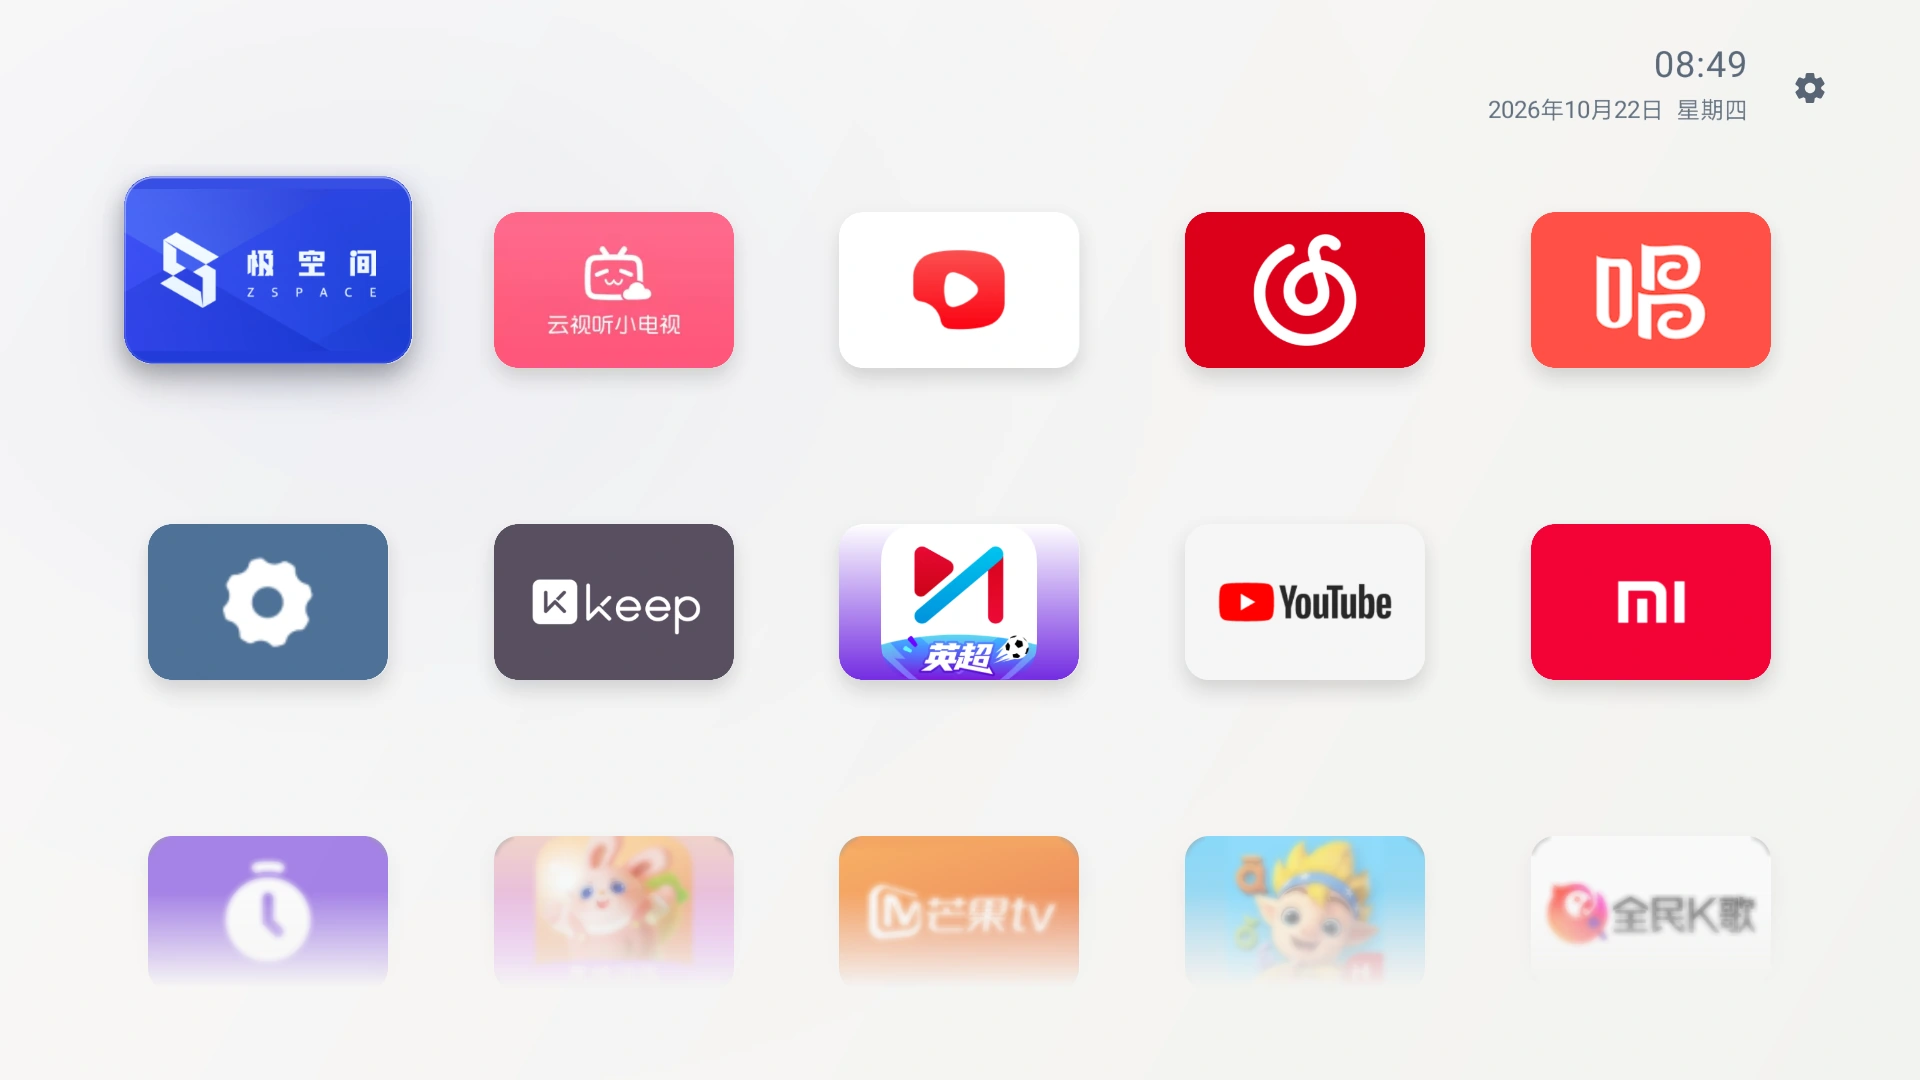
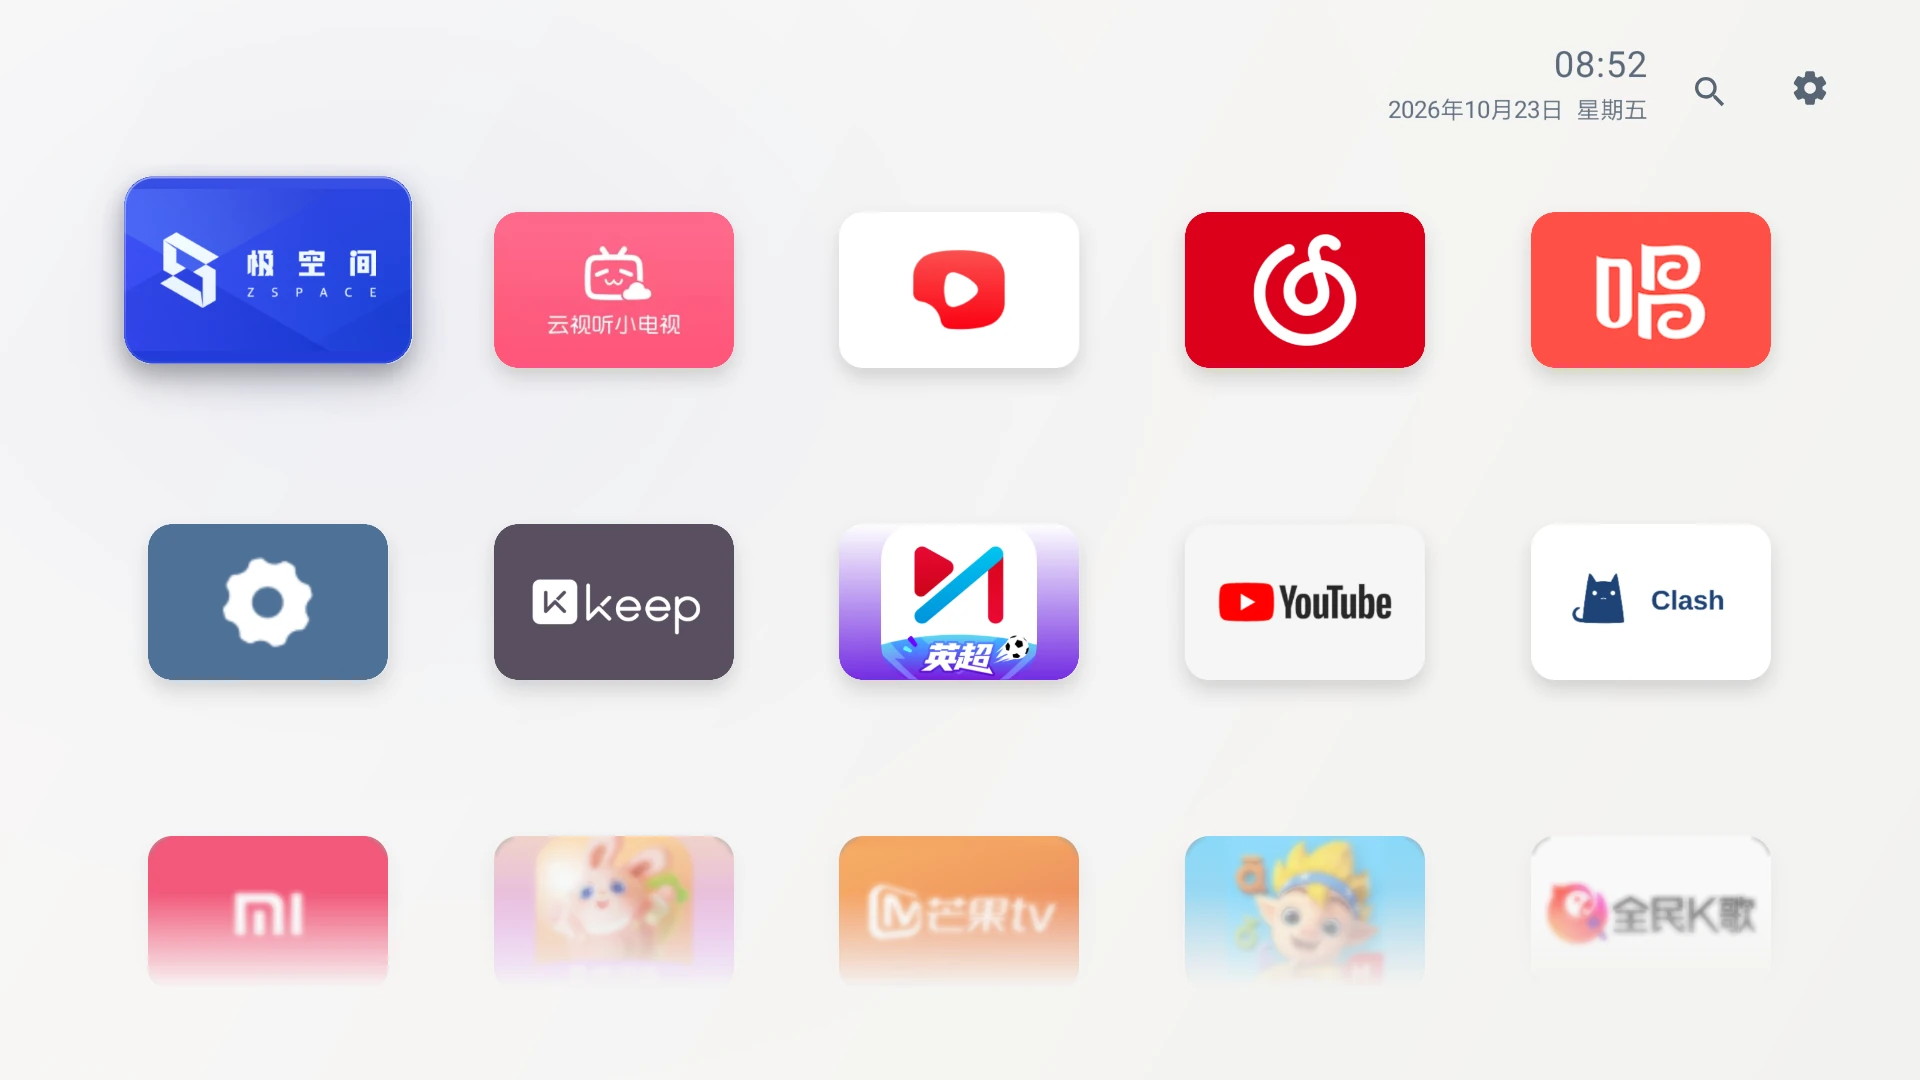
Refresh website screenshots from Still 0.9.0 on Xiaomi TV

Changed region(s): [[0.7812, 0.4583, 0.9375, 0.6417], [0.0625, 0.7639, 0.2188, 0.9167], [0.7188, 0.0306, 0.9062, 0.1222]]

diff --git a/website/index.html b/website/index.html
@@ -17,7 +17,7 @@
     <meta property="og:url" content="https://mfcheer.github.io/luma/" />
     <meta
       property="og:image"
-      content="https://mfcheer.github.io/luma/assets/home-light.webp"
+      content="https://mfcheer.github.io/luma/assets/home-light.webp?v=090"
     />
     <title>Still — 给电视一点留白</title>
     <link rel="canonical" href="https://mfcheer.github.io/luma/" />
@@ -68,10 +68,10 @@
             <img
               id="theme-preview"
               class="tv-screen"
-              src="./assets/home-light.webp"
+              src="./assets/home-light.webp?v=090"
               width="1920"
               height="1080"
-              alt="Still 浅色首页，小米电视实机截屏，五列应用卡片与底部渐隐续行"
+              alt="Still 0.9.0 浅色首页，小米电视实机截屏，带搜索入口、五列应用卡片与底部渐隐续行"
               fetchpriority="high"
             />
           </div>
@@ -108,7 +108,7 @@
                 controls
                 playsinline
                 preload="metadata"
-                poster="./assets/home-light.webp"
+                poster="./assets/video-poster.webp"
                 aria-label="Still 在小米电视上的真实交互演示"
               >
                 <source src="./assets/still-tv-demo.mp4" type="video/mp4" />
@@ -119,7 +119,7 @@
                 </p>
               </video>
             </div>
-            <figcaption>小米电视实机录制</figcaption>
+            <figcaption>小米电视实机录制 · Still 0.8.1</figcaption>
           </figure>
         </div>
       </section>
@@ -136,10 +136,10 @@
           </div>
           <div class="feature-art">
             <img
-              src="./assets/settings-light.webp"
+              src="./assets/settings-light.webp?v=090"
               width="1920"
               height="1080"
-              alt="Still 的分组设置页面，支持外观主题和显示应用名称开关"
+              alt="Still 0.9.0 的分组设置页面，支持外观主题和显示应用名称开关"
               loading="lazy"
             />
           </div>
@@ -151,10 +151,10 @@
           </div>
           <div class="feature-art">
             <img
-              src="./assets/menu-light.webp"
+              src="./assets/menu-light.webp?v=090"
               width="1920"
               height="1080"
-              alt="长按应用后出现的圆角菜单，提供移动位置与应用信息"
+              alt="Still 0.9.0 长按应用菜单，提供移动位置、移到最前与应用信息"
               loading="lazy"
             />
           </div>

diff --git a/website/site.js b/website/site.js
@@ -8,13 +8,13 @@ controls.forEach((button) => {
     const request = ++latestRequest;
     const dark = button.dataset.theme === "dark";
     const next = new Image();
-    next.src = dark ? "./assets/home-dark.webp" : "./assets/home-light.webp";
+    next.src = dark ? "./assets/home-dark.webp?v=090" : "./assets/home-light.webp?v=090";
     preview.setAttribute("aria-busy", "true");
     try {
       await next.decode();
       if (request !== latestRequest) return;
       preview.src = next.src;
-      preview.alt = `Still ${dark ? "深色" : "浅色"}首页，小米电视实机截屏，五列应用卡片与底部渐隐续行`;
+      preview.alt = `Still 0.9.0 ${dark ? "深色" : "浅色"}首页，小米电视实机截屏，带搜索入口、五列应用卡片与底部渐隐续行`;
       controls.forEach((item) =>
         item.setAttribute("aria-pressed", String(item === button)),
       );

diff --git a/scripts/capture-tv-090-shots.py b/scripts/capture-tv-090-shots.py
@@ -1,0 +1,145 @@
+#!/usr/bin/env python3
+"""Capture Still 0.9.0 screenshots on an explicitly selected TV; no recording or installation.
+
+Navigates only within Still. Theme changes are restored through the UI; move drafts are
+cancelled. Raw preference backup and UI dumps stay in the ignored output directory.
+"""
+import argparse
+import io
+import json
+import re
+import subprocess
+import time
+import xml.etree.ElementTree as ET
+from pathlib import Path
+from PIL import Image
+
+p = argparse.ArgumentParser()
+p.add_argument('--serial', required=True)
+args = p.parse_args()
+ROOT = Path(__file__).resolve().parents[1]
+ADB = str(Path.home() / 'Library/Android/sdk/platform-tools/adb')
+BASE = [ADB, '-s', args.serial]
+PKG = 'com.jianping.tv'
+OUT = ROOT / 'output/real-tv-presentation-090'
+OUT.mkdir(parents=True, exist_ok=True)
+
+
+def adb(*args, timeout=15):
+    return subprocess.check_output([*BASE, *args], text=True, timeout=timeout).strip()
+
+
+def key(code, pause=.65, long=False):
+    adb('shell', 'input', 'keyevent', *(['--longpress'] if long else []), str(code))
+    time.sleep(pause)
+
+
+def tree():
+    for _ in range(3):
+        adb('shell','rm','-f','/sdcard/still-presentation.xml')
+        result = adb('shell','uiautomator','dump','/sdcard/still-presentation.xml',timeout=20)
+        if 'dumped to' in result:
+            return ET.fromstring(adb('shell','cat','/sdcard/still-presentation.xml'))
+    raise AssertionError('No fresh TV hierarchy')
+
+
+def focus():
+    for _ in range(3):
+        selected=next((n for n in tree().iter('node') if n.get('focused') == 'true'),None)
+        if selected is not None: return selected
+        time.sleep(.3)
+    raise AssertionError('No focused Still control; check that TV display is awake')
+def desc(): return focus().get('content-desc', '')
+def prefs(): return {n.get('name'): n.get('value', n.text) for n in ET.fromstring(adb('shell','run-as',PKG,'cat','shared_prefs/launcher.xml'))}
+
+
+def shot(name):
+    state=tree()
+    raw=subprocess.check_output([*BASE,'exec-out','screencap','-p'],timeout=20)
+    im=Image.open(io.BytesIO(raw)); assert im.size == (1920,1080), im.size
+    (OUT/(name+'.png')).write_bytes(raw)
+    (OUT/(name+'.xml')).write_text(ET.tostring(state,encoding='unicode'))
+    print('Captured',name,flush=True)
+
+
+def home_top():
+    # Wake when needed; check state before the power fallback, never change sleep settings.
+    key(224,.7)
+    power=adb('shell','dumpsys','power')
+    if 'mWakefulness=Asleep' in power:
+        # This MiTV firmware ignores WAKEUP. Use POWER only after confirming asleep.
+        key(26,2)
+    assert 'mWakefulness=Awake' in adb('shell','dumpsys','power'), 'TV is still asleep'
+    adb('shell','am','start','-W','-n',PKG+'/.ui.MainActivity',timeout=20)
+    time.sleep(.5)
+    for _ in range(10): key(19,.2)
+    assert desc() == '搜索', desc()
+    key(20)
+    for _ in range(4): key(21,.15)
+
+
+def appearance():
+    home_top(); key(19); key(22); key(23)
+    labels=['默认桌面','开机启动','显示应用名称','外观主题','系统设置','刷新应用列表','设备与启动信息']
+    for _ in range(8):
+        current=desc()
+        if current == '外观主题': return
+        index=next((i for i,label in enumerate(labels) if current.startswith(label)),0)
+        key(19 if index>3 else 20,.2)
+    raise AssertionError('Theme row not found')
+
+
+def theme(light):
+    appearance(); key(23,.3)
+    state=tree()
+    choices=[n for n in state.iter('node') if n.get('checkable') == 'true']
+    assert [n.get('text') for n in choices] == ['浅色','深色']
+    selected=next(i for i,n in enumerate(choices) if n.get('selected') == 'true')
+    target=0 if light else 1
+    if target != selected: key(20 if target > selected else 19,.2)
+    key(23); assert desc() == '外观主题'
+    key(4)
+
+
+def open_menu():
+    # Android 9's input --longpress sends a repeat flag rather than holding the key.
+    # Use a stationary long touch on the actual card bounds for capture only.
+    node=focus()
+    assert node.get('long-clickable') == 'true', node.get('content-desc')
+    x1,y1,x2,y2=map(int,re.findall(r'\d+',node.get('bounds')))
+    x=(x1+x2)//2; y=y1+(y2-y1)//4
+    adb('shell','input','swipe',str(x),str(y),str(x),str(y),'850')
+    time.sleep(.8)
+    # Leave touch mode; Up is trapped on the first menu action if already focused.
+    key(19,.3)
+    assert desc() == '移动位置', desc()
+
+
+assert adb('get-state') == 'device'
+assert adb('shell','getprop','ro.product.model') == 'MiTV-ANSP0', 'Unexpected TV'
+assert 'versionName=0.9.0' in adb('shell','dumpsys','package',PKG)
+original=prefs()
+assert len(json.loads(original['appOrder'])) >= 20
+(OUT/'preferences-before.xml').write_text(adb('shell','run-as',PKG,'cat','shared_prefs/launcher.xml'))
+original_light=original.get('appearance','light') != 'dark'
+original_asleep='mWakefulness=Asleep' in adb('shell','dumpsys','power')
+completed=False
+try:
+    theme(True); home_top(); shot('home-light')
+    open_menu(); shot('menu-light'); key(4)
+    appearance(); shot('settings-light'); key(4)
+    theme(False); home_top(); shot('home-dark')
+    completed=True
+finally:
+    theme(original_light); home_top()
+    current=prefs()
+    for k in ('appOrder','showAppNames','bootEnabled'):
+        assert current.get(k)==original.get(k), 'User preference changed: '+k
+    assert (current.get('appearance','light') != 'dark') == original_light
+    if original_asleep:
+        key(223,1)
+        if 'mWakefulness=Awake' in adb('shell','dumpsys','power'): key(26,1)
+        assert 'mWakefulness=Asleep' in adb('shell','dumpsys','power')
+    (OUT/'capture-summary.json').write_text(json.dumps({'completed':completed,'model':'MiTV-ANSP0','android':9,'api':28,'version':'0.9.0','apps':len(json.loads(original['appOrder'])),'resolution':[1920,1080],'orderAndOptionsPreserved':True,'originalThemeRestored':True,'originalPowerStateRestored':True,'videoRecorded':False},indent=2))
+    print('RESTORED: original order/options, theme and power state',flush=True)
+print('PASS: four real TV screenshots captured, no recording',flush=True)

diff --git a/docs/qa-090/README.md b/docs/qa-090/README.md
@@ -4,7 +4,7 @@
 
 ## 验证环境和范围
 
-专用 Android TV API 33 / ARM64 / 1920×1080 模拟器，28 个应用中含 24 个独立测试应用。业务脚本恢复完整原偏好。实机目前待机；用户明确选择本轮只完成模拟器验证，未唤醒或更新电视，搜狗 TV 输入法尚未实测。电视仍为此前的 0.8.3。
+专用 Android TV API 33 / ARM64 / 1920×1080 模拟器，28 个应用中含 24 个独立测试应用。业务脚本恢复完整原偏好。开发回归阶段用户选择只验证模拟器，当时电视保持 0.8.3 待机。随后按用户要求同签名覆盖更新电视至 0.9.0，41 个应用的顺序、完整偏好和默认桌面保留，并另行采集新版官网截图；详见 [实机展示与官网](../实机展示与官网.md)。搜狗 TV 输入法和实机搜索完整操作仍未实测。
 
 ## 搜索和状态
 

diff --git a/design-qa.md b/design-qa.md
@@ -53,4 +53,4 @@ final result: passed
 
 ## Follow-up Polish
 
-P3：不同设备的系统字体和输入法会改变字形、候选词与键盘区域；小米 Android9/搜狗输入法待用户方便时实测。当前完成的是模拟器验证，电视仍为0.8.3，保持待机。
+P3：不同设备的系统字体和输入法会改变字形、候选词与键盘区域；小米 Android9/搜狗输入法待用户方便时实测。本报告搜索交互的回归范围为模拟器。随后按用户要求将电视更新至0.9.0，并采集官网四张新版实机截图；搜狗输入法和完整搜索交互仍待实测，见 `docs/实机展示与官网.md`。
